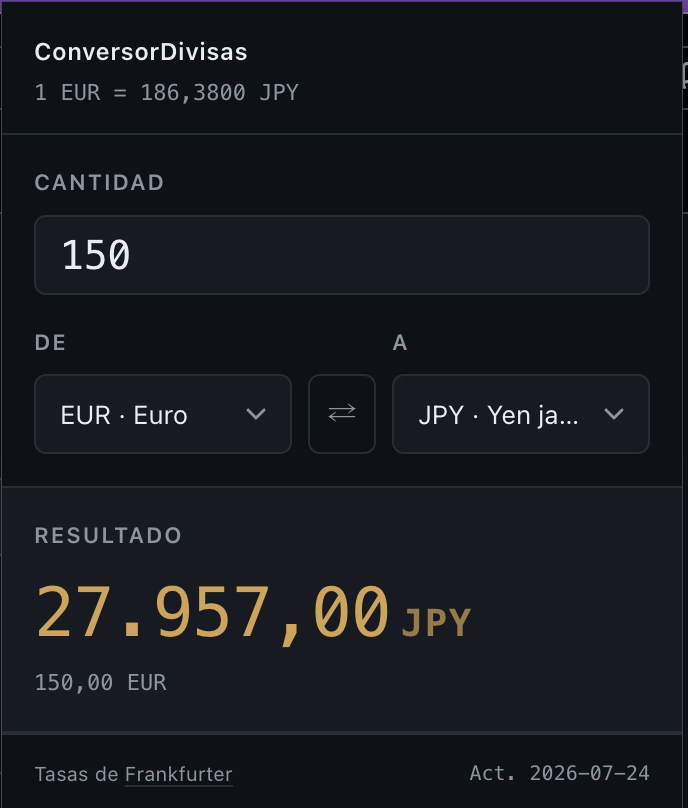
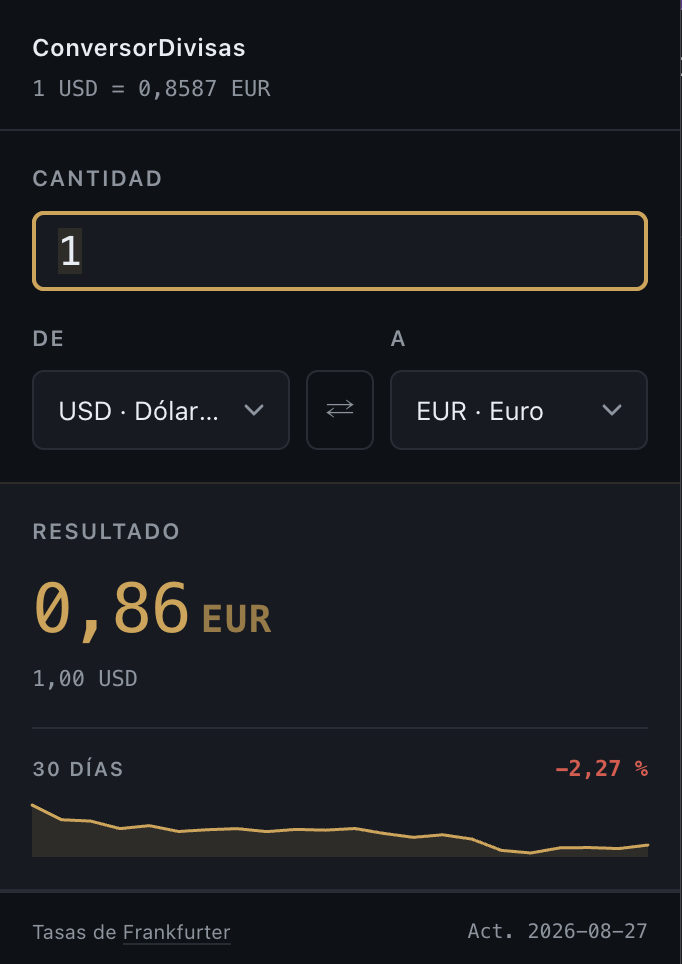
docs: simplificar el README y actualizar la captura con el histórico

diff --git a/README.md b/README.md
@@ -1,38 +1,43 @@
 # ConversorDivisas
 
-Extensión de Chrome para convertir divisas con tasas de cambio reales.
+Extensión de Chrome para convertir divisas sin salir de lo que estés haciendo.
 
-Lo hice porque me cansé de abrir una pestaña y buscar "euro a dólar" cada vez que
-necesitaba una conversión rápida. Ahora es un clic en la barra del navegador.
+La hice porque me cansé de abrir una pestaña y buscar "euro a dólar" cada vez
+que necesitaba una conversión rápida. Ahora es un clic en la barra del navegador.
 
 ![Captura del popup](docs/screenshot.png)
 
 ## Qué hace
 
-- Convierte entre 15 divisas con tasas actualizadas del Banco Central Europeo
-- Botón para intercambiar origen y destino sin tener que tocar los dos selectores
-- Recuerda la última pareja que usaste
-- Si la API falla te dice por qué, no se queda en blanco
+- Convierte entre 15 divisas con tasas del Banco Central Europeo
+- Un botón para dar la vuelta al par sin tocar los dos desplegables
+- Un pequeño gráfico con cómo ha ido la tasa en el último mes
+- Recuerda la última pareja de divisas que usaste
+- Se abre con `Ctrl+Shift+U` (en Mac, `Cmd+Shift+U`)
+- Si algo falla te dice qué ha pasado, no se queda en blanco
 
-No pide más permisos que `storage` y el acceso a la API. No hay analítica ni
-seguimiento de ningún tipo.
+Solo pide dos permisos: guardar tu última pareja de divisas y hablar con la API
+de las tasas. No hay analítica ni seguimiento de ningún tipo.
 
 ## Instalación
 
-Todavía no está en la Chrome Web Store, así que hay que cargarla a mano:
+No está en la Chrome Web Store, así que se carga a mano:
 
-1. Clona el repo o descarga el ZIP
+1. Descarga el repo (clonándolo o como ZIP)
 2. Abre `chrome://extensions`
-3. Activa el "Modo de desarrollador" (arriba a la derecha)
-4. Pulsa "Cargar descomprimida" y elige la carpeta del proyecto
+3. Activa el **Modo de desarrollador**, arriba a la derecha
+4. Pulsa **Cargar descomprimida** y elige la carpeta del proyecto
 
-El icono aparecerá en la barra. Si no lo ves, está escondido detrás del icono
-de la pieza de puzzle.
+El icono aparecerá en la barra. Si no lo ves, está escondido detrás del icono de
+la pieza de puzzle.
+
+¿El atajo no funciona? Chrome no lo asigna si ya lo está usando otra extensión.
+Se cambia en `chrome://extensions/shortcuts`.
 
 ## Cómo está hecho
 
-JavaScript sin frameworks, sin build y sin dependencias. Son cuatro archivos y
-una carpeta de iconos:
+JavaScript a pelo: sin frameworks, sin build y sin dependencias. Son cuatro
+archivos y una carpeta de iconos:
 
 ```
 manifest.json    configuración de la extensión (Manifest V3)
@@ -42,35 +47,19 @@ popup.js         toda la lógica
 icons/           16, 48 y 128 px
 ```
 
-No hay `package.json` ni `node_modules` porque no hacen falta. Editas un archivo,
-le das a recargar en `chrome://extensions` y ya está.
+No hay `package.json` ni `node_modules` porque no hacen falta. Editas un
+archivo, le das a recargar en `chrome://extensions` y ya está.
 
 Las tasas vienen de [Frankfurter](https://frankfurter.dev), que es gratuita, no
-pide API key y saca los datos del BCE. Solo pido el par que necesito en cada
-momento (`?base=EUR&symbols=USD`) en lugar de traerme las 30 divisas.
-
-Un par de decisiones que igual no son obvias:
-
-- Las cifras van en monoespaciada con `tabular-nums` para que el resultado no
-  baile de lado mientras escribes.
-- Al pulsar el botón de intercambio invierto la tasa en local (`1/rate`) y
-  muestro el resultado al instante, sin esperar a la petición. La API responde
-  después y corrige si hace falta.
-- Hay un contador de peticiones para que, si cambias de divisa muy rápido, una
-  respuesta lenta y antigua no pise a la buena.
+pide API key y saca los datos del BCE. Como el BCE publica una vez al día
+laborable, el gráfico no tiene puntos en fines de semana ni festivos.
 
 ## Divisas soportadas
 
 EUR, USD, GBP, JPY, CHF, CAD, AUD, CNY, MXN, BRL, SEK, NOK, DKK, PLN y TRY.
 
-Añadir una más es meter una línea en el array `CURRENCIES` de `popup.js`,
-siempre que Frankfurter la soporte.
-
-## Pendiente
-
-- [ ] Subirla a la Chrome Web Store
-- [ ] Histórico con la evolución de la tasa
-- [ ] Atajo de teclado para abrir el popup
+Para añadir otra basta con meter una línea en el array `CURRENCIES` de
+`popup.js`, siempre que Frankfurter la soporte.
 
 ## Licencia
 
